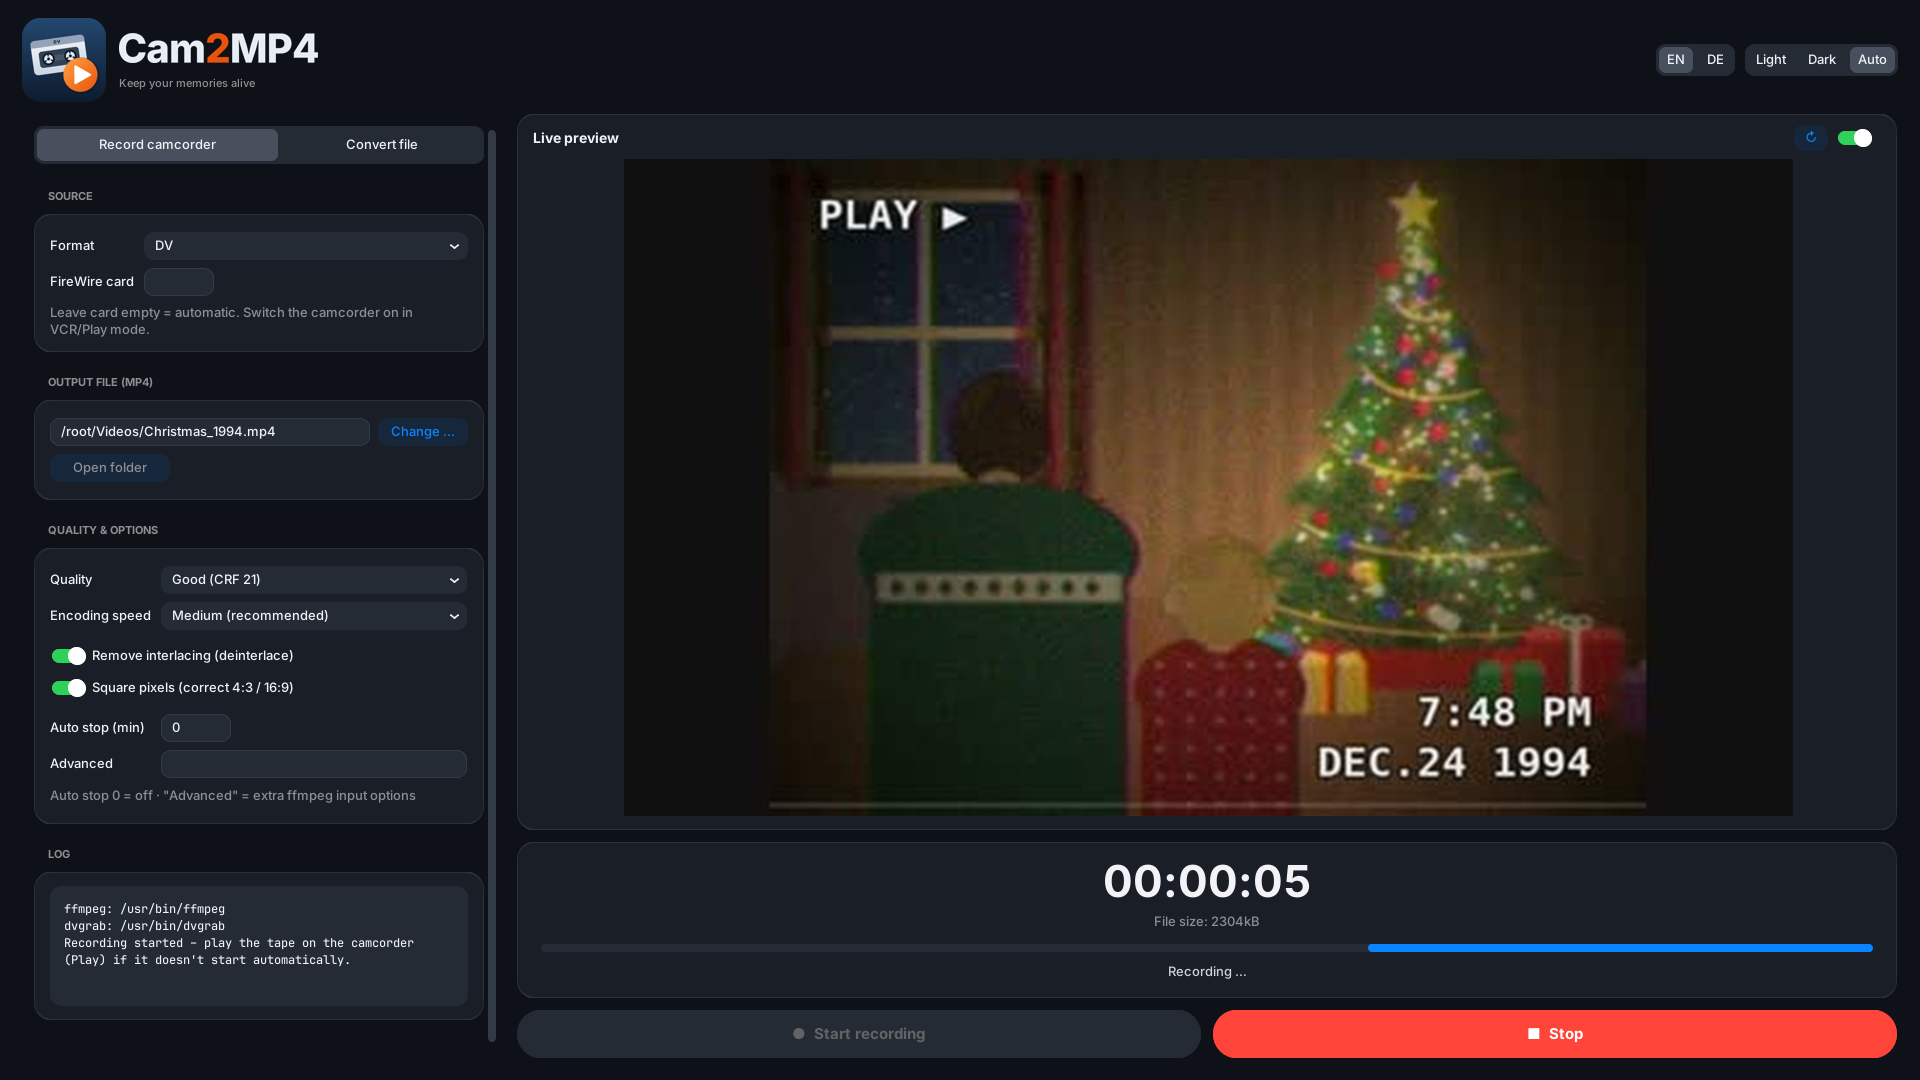
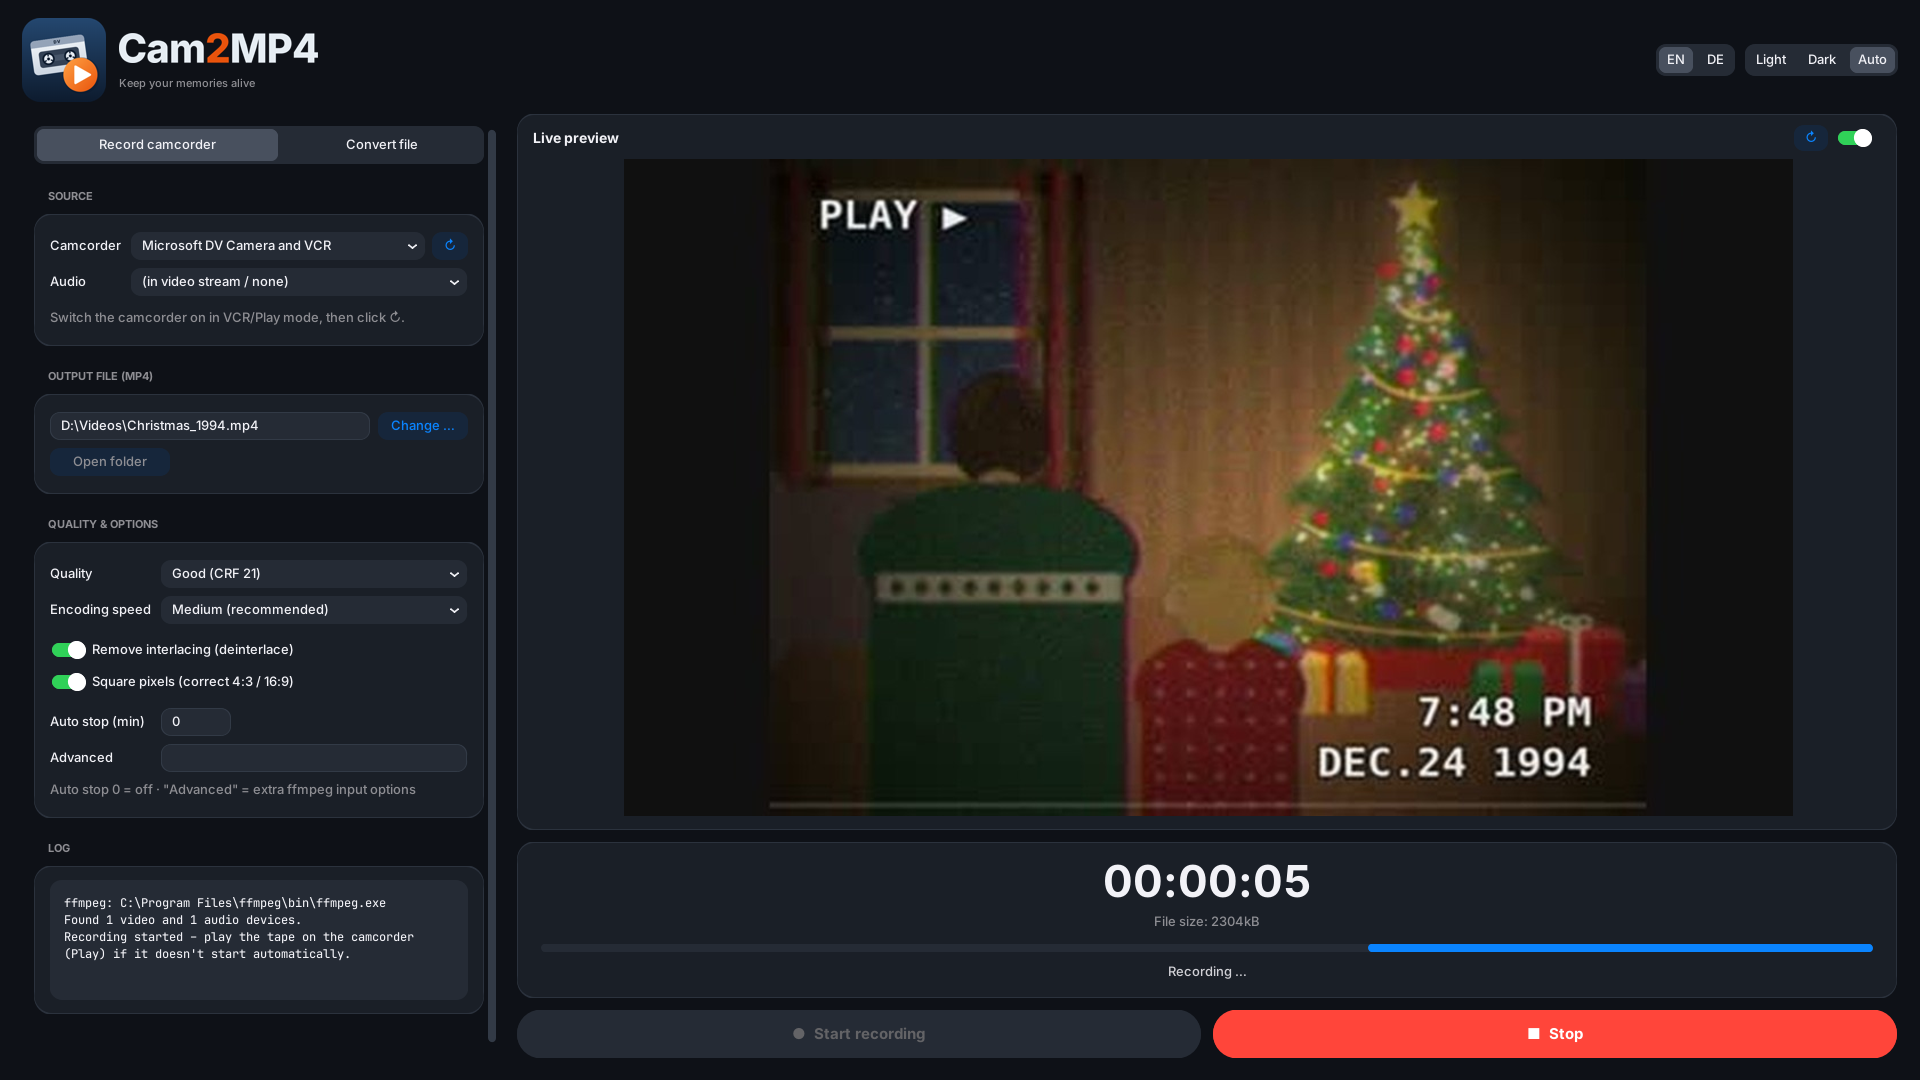
Show the Windows version in dark mode in the README
The README screenshot now shows the Windows interface (camcorder and
audio selection) in dark mode. The light screenshot is gone, and the
release notes use the dark one.

Changed region(s): [[0.0312, 0.3361, 0.2188, 0.7639], [0.0312, 0.2139, 0.2188, 0.3056], [0.0312, 0.825, 0.2188, 0.9167]]

diff --git a/README.md b/README.md
@@ -5,8 +5,7 @@ Cam2MP4 digitizes camcorder tapes over FireWire (DV/HDV) and converts video file
 ## Screenshots
 
 <p align="center">
-  <img src="docs/screenshots/recording-light.png" alt="Recording a 1994 Christmas tape from a camcorder in light mode, with live preview" width="49%">
-  <img src="docs/screenshots/recording-dark.png" alt="The same recording in dark mode" width="49%">
+  <img src="docs/screenshots/recording-dark.png" alt="Recording a 1994 Christmas tape from a camcorder on Windows in dark mode, with live preview">
 </p>
 <p align="center"><em>Recording an old Christmas tape: live preview, elapsed time and file size while the MP4 is written.</em></p>
 
